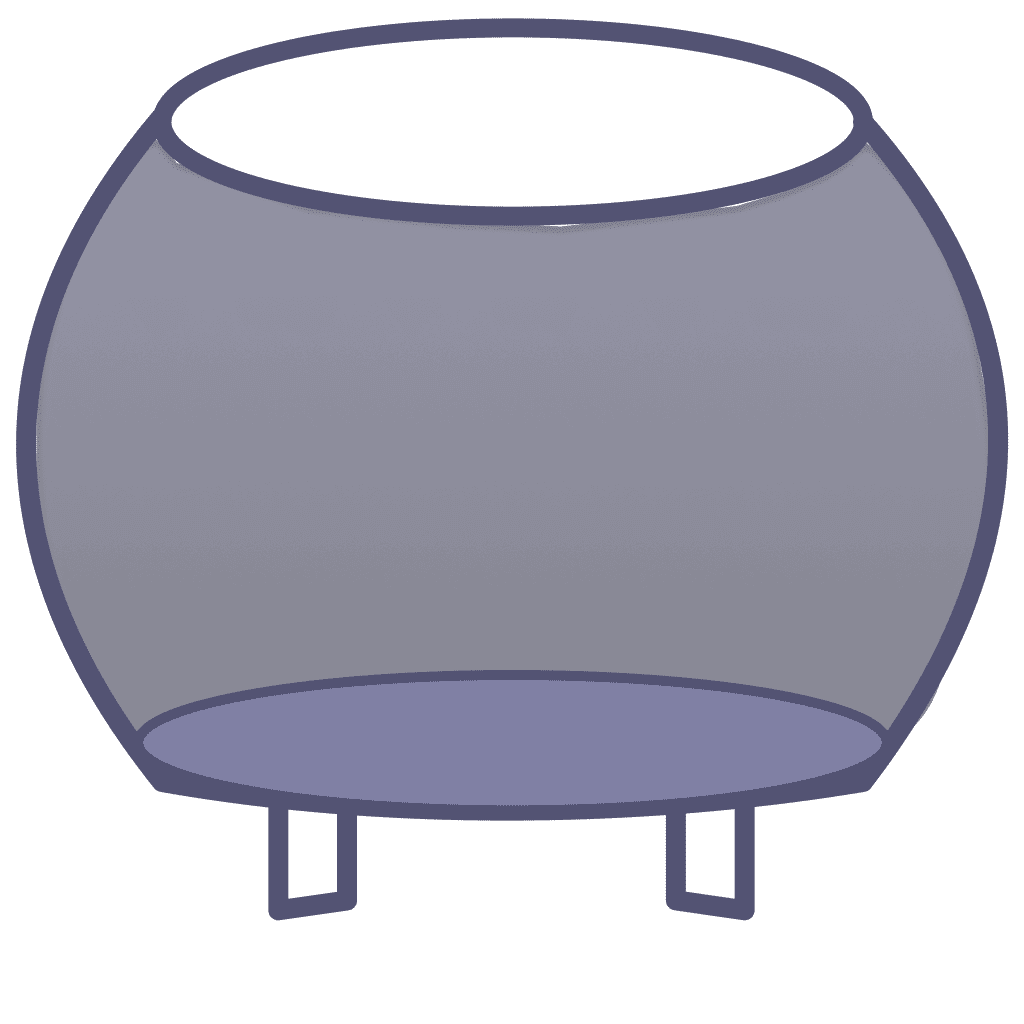
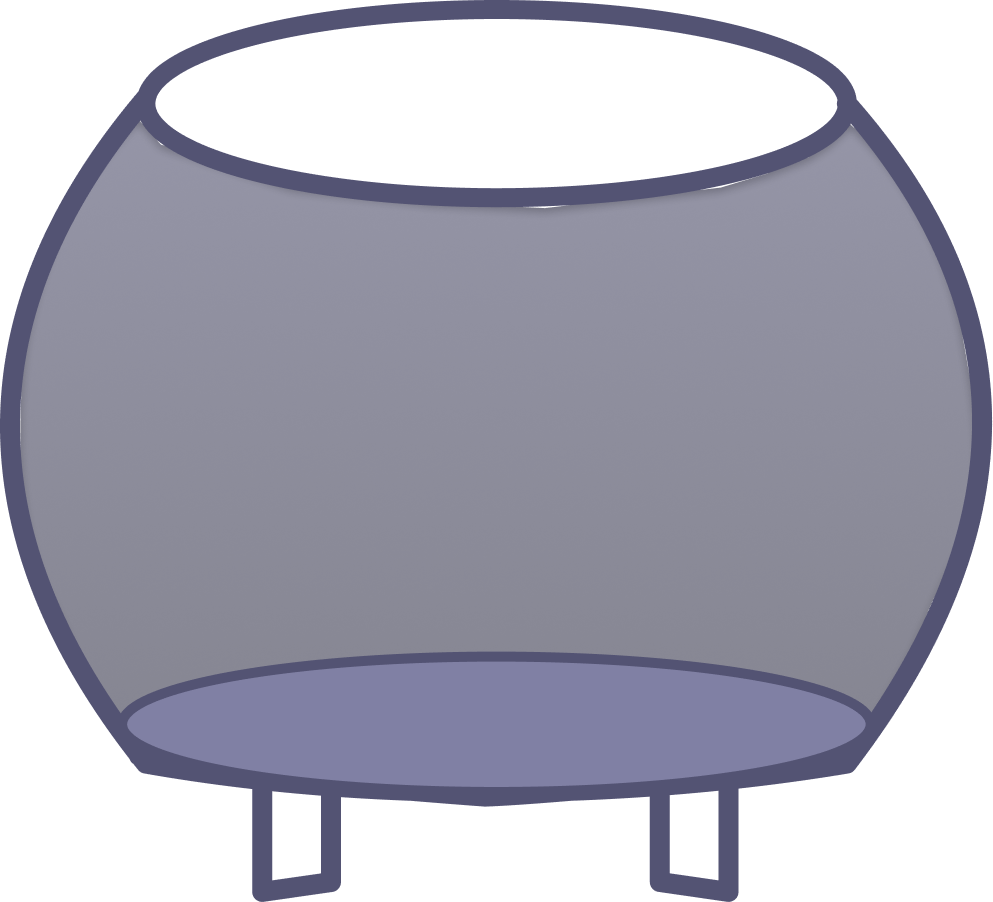
added container to game

Changed region(s): [[0.0, 0.0, 0.999, 1.0], [0.2185, 0.6519, 0.7805, 0.6829]]

diff --git a/lib/features/cauldron/game/index.dart b/lib/features/cauldron/game/index.dart
@@ -1,17 +1,57 @@
-import 'package:flame/game.dart';
+import 'dart:async';
+import 'dart:math' as math; 
+import 'package:flame/components.dart';
+import 'package:flame/events.dart';
+import 'package:flame_forge2d/flame_forge2d.dart';
 import 'package:flutter/material.dart';
 import 'package:grimoji/app/palette.dart';
+import 'core/container/index.dart';
 
-class CauldronGame extends FlameGame{
+final Vector2 worldCauldronSize = Vector2(10.9125, 9.93);
+const cauldronScale = 18.0; 
+
+class CauldronGame extends Forge2DGame with TapCallbacks {
   final ColorScheme colorScheme;
   final double globalScale;
+  final BuildContext context;
+  
   static final palette = Palette();
 
-  CauldronGame({required this.colorScheme, required this.globalScale});
+  CauldronGame({
+    required this.context,
+    required this.colorScheme,
+    required this.globalScale,
+  }) : super(gravity: Vector2(0, 30)) {
+    debugMode = true; 
+  }
 
   @override
   Color backgroundColor() {
     return palette.midnight;
   }
 
+  @override
+  FutureOr<void> onLoad() async {
+    await super.onLoad();
+
+    await world.add(
+      CauContainer(
+        worldSize: worldCauldronSize, 
+        position: Vector2(0, 0.5), 
+      ),
+    );
+  }
+
+  @override
+  void onGameResize(Vector2 size) {
+    super.onGameResize(size);
+    
+    camera.viewport.size = size;
+    
+    final shortestSide = math.min(size.x, size.y);
+    camera.viewfinder.zoom = (shortestSide / cauldronScale) * globalScale;
+    
+    camera.viewfinder.anchor = Anchor.center;
+    camera.viewfinder.position = Vector2(0, 0);
+  }
 }
